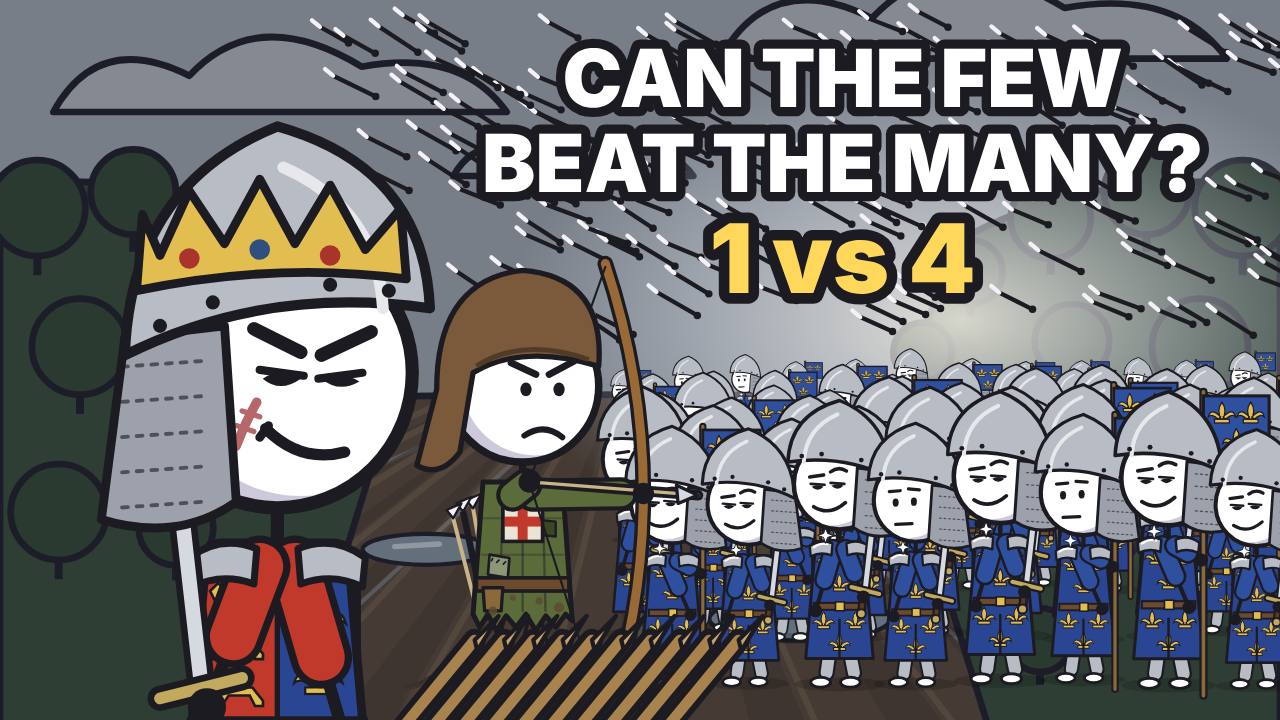
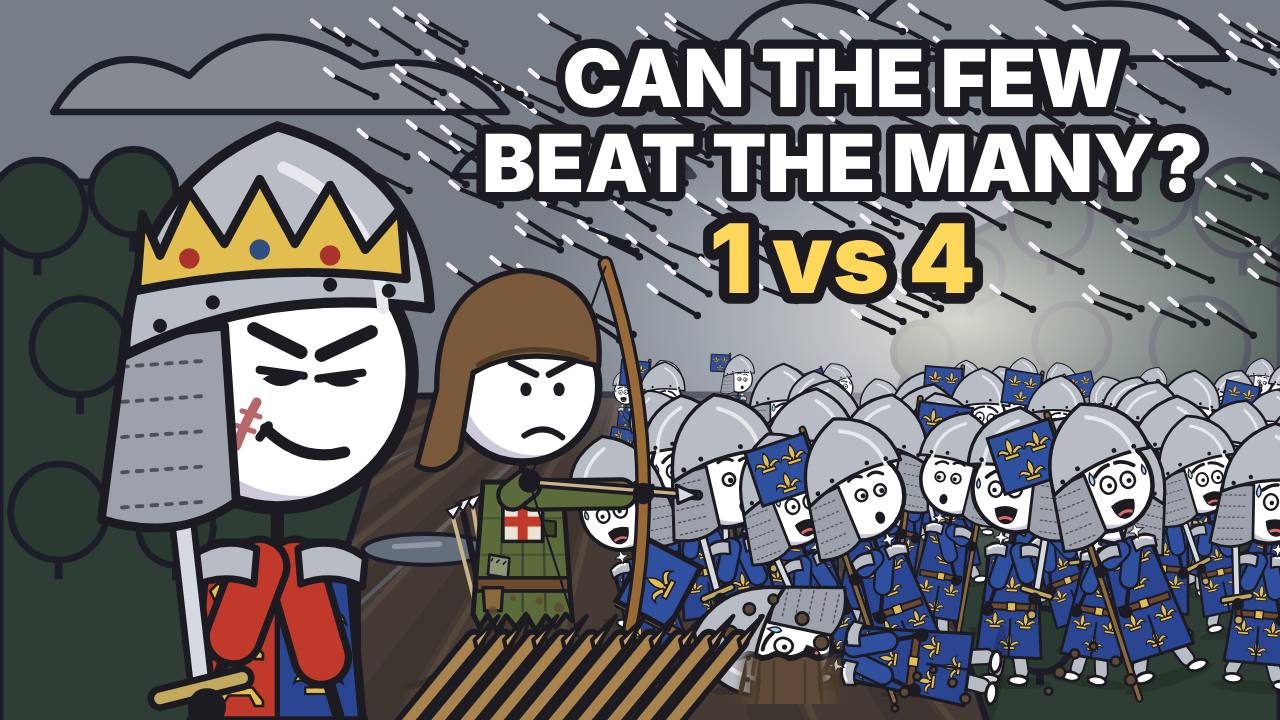
Episode 3 thumbnail: the French panic and scatter
- FX crowd: optional faces list, flee (share turned away and running),
  tilt (random lean) and fall (share knocked over); defaults unchanged
- Thumbnail-only 'panic' face: wide eyes, screaming mouth, sweat drops
- A knight fallen face down in the mud, a dropped banner, mud splashes

Claude-Session: https://claude.ai/code/session_017MZkjKDMev6tKpnRG7nu5t

Changed region(s): [[0.4375, 0.4889, 1.0, 0.9778]]

diff --git a/episodes/03-agincourt/thumbnail.js b/episodes/03-agincourt/thumbnail.js
@@ -1,21 +1,27 @@
 // Thumbnail for episode 3 (1280x720), drawn with the character code in index.html.
 // Usage: node episodes/03-agincourt/thumbnail.js
 // Idea: "Can the few beat the many? 1 vs 4" (owner's wording; a ratio instead of disputed head counts). Henry V (crown on helmet, scar, confident smirk) and a few ragged English
-// archers behind their stakes in the mud, facing a huge wall of shiny French knights under a
-// sky full of arrows.
+// archers behind their stakes in the mud, facing a huge crowd of shiny French knights who
+// panic and scatter under a sky full of arrows.
 const fs = require("fs"), path = require("path"), vm = require("vm");
 const { chromium } = require("playwright");
 const root = path.join(__dirname, "../..");
 const html = fs.readFileSync(path.join(root, "index.html"), "utf8");
 const script = html.split("<script>")[1].split("/* ---------- State + UI")[0];
 const ctx = {}; vm.createContext(ctx);
-vm.runInContext(script + ";this.character=character;this.SCENES=SCENES;this.FX=FX;this.MUDAT=MUDAT;", ctx);
+vm.runInContext(script + ";this.character=character;this.SCENES=SCENES;this.FX=FX;this.MUDAT=MUDAT;this.LYS=LYS;", ctx);
 // Thumbnail-only face: sharp, narrowed eyes under angry brows plus a one-sided confident smirk
 vm.runInContext(`FACES.fierce={label:"Fierce smirk",d:()=>ln(68,56,85,64,INK,4.6)+ln(108,55,92,63,INK,4.6)
   +'<path d="M72,73 Q78,69 85,72 Q79,77 72,73Z" fill="'+INK+'"/><path d="M92,72 Q99,68 105,72 Q99,77 92,72Z" fill="'+INK+'"/>'
   +ln(71,70,86,72,INK,2.8)+ln(91,71,106,69,INK,2.8)
   +'<path d="M77,97 Q92,101 104,89" fill="none" stroke="'+INK+'" stroke-width="3.8" stroke-linecap="round"/>'
-  +ln(103,88,106,92,INK,3)};`, ctx);
+  +ln(103,88,106,92,INK,3)};
+// Thumbnail-only face for the French: wide eyes, worried brows, screaming mouth, sweat drops
+FACES.panic={label:"Panic",d:()=>'<path d="M68,60 Q76,52 85,52" fill="none" stroke="'+INK+'" stroke-width="3.8" stroke-linecap="round"/><path d="M92,52 Q100,52 108,59" fill="none" stroke="'+INK+'" stroke-width="3.8" stroke-linecap="round"/>'
+  +'<ellipse cx="78" cy="72" rx="7" ry="8" fill="#fff" stroke="'+INK+'" stroke-width="2.6"/><circle cx="77" cy="73" r="2.4" fill="'+INK+'"/>'
+  +'<ellipse cx="98" cy="71" rx="7.5" ry="8.5" fill="#fff" stroke="'+INK+'" stroke-width="2.6"/><circle cx="97" cy="72" r="2.4" fill="'+INK+'"/>'
+  +'<path d="M78,92 Q90,86 102,92 Q100,108 90,108 Q80,108 78,92Z" fill="'+INK+'"/><path d="M83,103 Q90,99 97,103" fill="none" stroke="#e36a6a" stroke-width="3"/>'
+  +'<path d="M112,54 q-5,9 0,13 q5,-4 0,-13Z M60,62 q-4,7 0,10 q4,-3 0,-10Z" fill="#9fd3f2" stroke="'+INK+'" stroke-width="1.5"/>'};`, ctx);
 
 const base = { hair: "none", hat: "none", face: "neutral", outfit: "stick", color: "#3a3640", prop: "none", pose: "stand", flip: false };
 const mk = o => ({ ...base, ...o });
@@ -28,7 +34,15 @@ s += `<rect x="0" y="0" width="480" height="320" fill="#1d2233" opacity="0.38"/>
 s += `<defs><radialGradient id="flash" cx="0.5" cy="0.5" r="0.5"><stop offset="0" stop-color="#f4f1e6" stop-opacity="0.85"/><stop offset="1" stop-color="#dfe8ff" stop-opacity="0"/></radialGradient></defs>`;
 s += `<ellipse cx="360" cy="150" rx="170" ry="100" fill="url(#flash)"/>`;
 // the French: rows and rows of shiny blue knights, back rows smaller
-s += ctx.FX.crowd({ side: "fr", x0: 225, x1: 486, rows: 6, gBack: 196, gFront: 286, scBack: 0.11, scFront: 0.36, perRow: 8, seed: 17, banners: 0.25 });
+s += ctx.FX.crowd({ side: "fr", x0: 225, x1: 486, rows: 6, gBack: 196, gFront: 286, scBack: 0.11, scFront: 0.36, perRow: 8, seed: 17, banners: 0.25,
+  faces: ["panic", "panic", "panic", "surprised"], flee: 0.6, tilt: 22, fall: 0.08 });
+// front of the rout: a knight fallen face down in the mud, a dropped banner, mud splashing
+const putRot = (cfg, x, ground, sc, a) => `<g transform="translate(${x - 100 * sc} ${ground - 272 * sc}) scale(${sc}) rotate(${a} 100 268)">${ctx.character(mk(cfg))}</g>`;
+s += `<g transform="rotate(-62 300 292)"><line x1="300" y1="292" x2="300" y2="214" stroke="#1c1b22" stroke-width="4.5"/><line x1="300" y1="292" x2="300" y2="214" stroke="#8a6a3a" stroke-width="2.5"/>`
+   + `<rect x="300" y="214" width="26" height="22" fill="#2f4f9f" stroke="#1c1b22" stroke-width="2"/>${ctx.LYS(313, 229, 0.6)}</g>`;
+s += putRot({ outfit: "knight_fr", hat: "bascinet", face: "panic", prop: "none" }, 372, 284, 0.4, -82);
+s += ctx.MUDAT(296, 284, 0.4 * 0.7, 0.3);
+s += ctx.FX.splash({ x: 290, y: 280, k: 0.9 }) + ctx.FX.splash({ x: 410, y: 292, k: 0.7 }) + ctx.FX.splash({ x: 350, y: 298, k: 0.6 });
 // arrows pouring onto them, with a shadow on the ground
 s += ctx.FX.arrowstorm({ x0: 120, x1: 480, y0: 34, y1: 150, dir: 1, n: 170, seed: 8 });
 // two ragged archers behind their stakes, ankle-deep in mud

diff --git a/index.html b/index.html
@@ -442,14 +442,19 @@ const FX={
     :`<circle cx="${x}" cy="${y-14}" r="40" fill="#f29a3a" opacity=".16"/><path d="M${x-14},${y} L${x+14},${y-4} M${x-12},${y-5} L${x+12},${y}" stroke="#6b4a2e" stroke-width="5" stroke-linecap="round"/><path d="M${x},${y-34} Q${x-12},${y-18} ${x-6},${y-4} L${x+6},${y-4} Q${x+12},${y-18} ${x},${y-34}Z" fill="#f29a3a" ${st}/><path d="M${x},${y-22} Q${x-5},${y-12} ${x-2},${y-4} L${x+2},${y-4} Q${x+5},${y-12} ${x},${y-22}Z" fill="#f5d95a"/>`,
   // a crowd of small soldiers in rows (back rows smaller), to show army size at a glance.
   // side "fr" = French knights with some fleur-de-lis banners; "en" = English archers with a few St George knights
-  crowd:({side="fr",x0=260,x1=470,rows=4,gBack=200,gFront=260,scBack=.16,scFront=.32,perRow=9,flip=false,seed=3,banners=.2})=>{
+  // optional chaos: faces (list of face names), flee (share turned away and running), tilt (max lean in degrees), fall (share fallen over)
+  crowd:({side="fr",x0=260,x1=470,rows=4,gBack=200,gFront=260,scBack=.16,scFront=.32,perRow=9,flip=false,seed=3,banners=.2,faces=null,flee=0,tilt=0,fall=0})=>{
     const r=rng(seed),pick=a=>a[Math.floor(r()*a.length)];let s="";
     for(let k=0;k<rows;k++){const t=rows>1?k/(rows-1):1,g=gBack+(gFront-gBack)*t,sc0=scBack+(scFront-scBack)*t,n=Math.max(1,Math.round(perRow*(1+.45*(1-t))));
       for(let i=0;i<n;i++){const sc=sc0*(.92+r()*.16),x=x0+(i+.5+(k%2?.35:0))*(x1-x0)/(n+.35)+(r()-.5)*5,gg=g+(r()-.5)*4;
         const cfg=side==="fr"?{hair:"none",hat:"bascinet",face:pick(["smug","smug","neutral","determined"]),outfit:"knight_fr",color:"#2f4f9f",prop:r()<banners?"fleur":"sword",pose:"stand",flip}
           :(r()<.2?{hair:"none",hat:"bascinet",face:pick(["determined","neutral"]),outfit:"knight_en",color:"#f4f2f7",prop:r()<banners?"stgeorge":"sword",pose:"stand",flip}
                   :{hair:"short",hat:pick(["kettle","hood","none"]),face:pick(["closed","neutral","determined"]),outfit:"archer",color:pick(["#8a6a4a","#5b6b3a","#9a7f55"]),prop:"longbow",pose:"stand",flip});
-        s+=`<g transform="translate(${(x-100*sc).toFixed(1)} ${(gg-272*sc).toFixed(1)}) scale(${sc.toFixed(3)})">${character(cfg)}</g>`}}
+        if(faces)cfg.face=pick(faces);
+        let rot="";
+        if(flee||tilt||fall){const run=r()<flee;if(run){cfg.flip=!flip;cfg.pose="walk"}
+          const a=r()<fall?(cfg.flip?78:-78):(r()-.5)*2*tilt;if(a)rot=` rotate(${a.toFixed(1)} 100 268)`}
+        s+=`<g transform="translate(${(x-100*sc).toFixed(1)} ${(gg-272*sc).toFixed(1)}) scale(${sc.toFixed(3)})${rot}">${character(cfg)}</g>`}}
     return s},
   // bold caption drawn into the frame (for infographic labels)
   label:({x=240,y=60,text="",size=18,color="#fff",anchor="middle"})=>`<text x="${x}" y="${y}" font-family="Inter, DejaVu Sans, sans-serif" font-weight="900" font-size="${size}" text-anchor="${anchor}" fill="${color}" stroke="${INK}" stroke-width="${size/4}" paint-order="stroke" stroke-linejoin="round">${text}</text>`,
